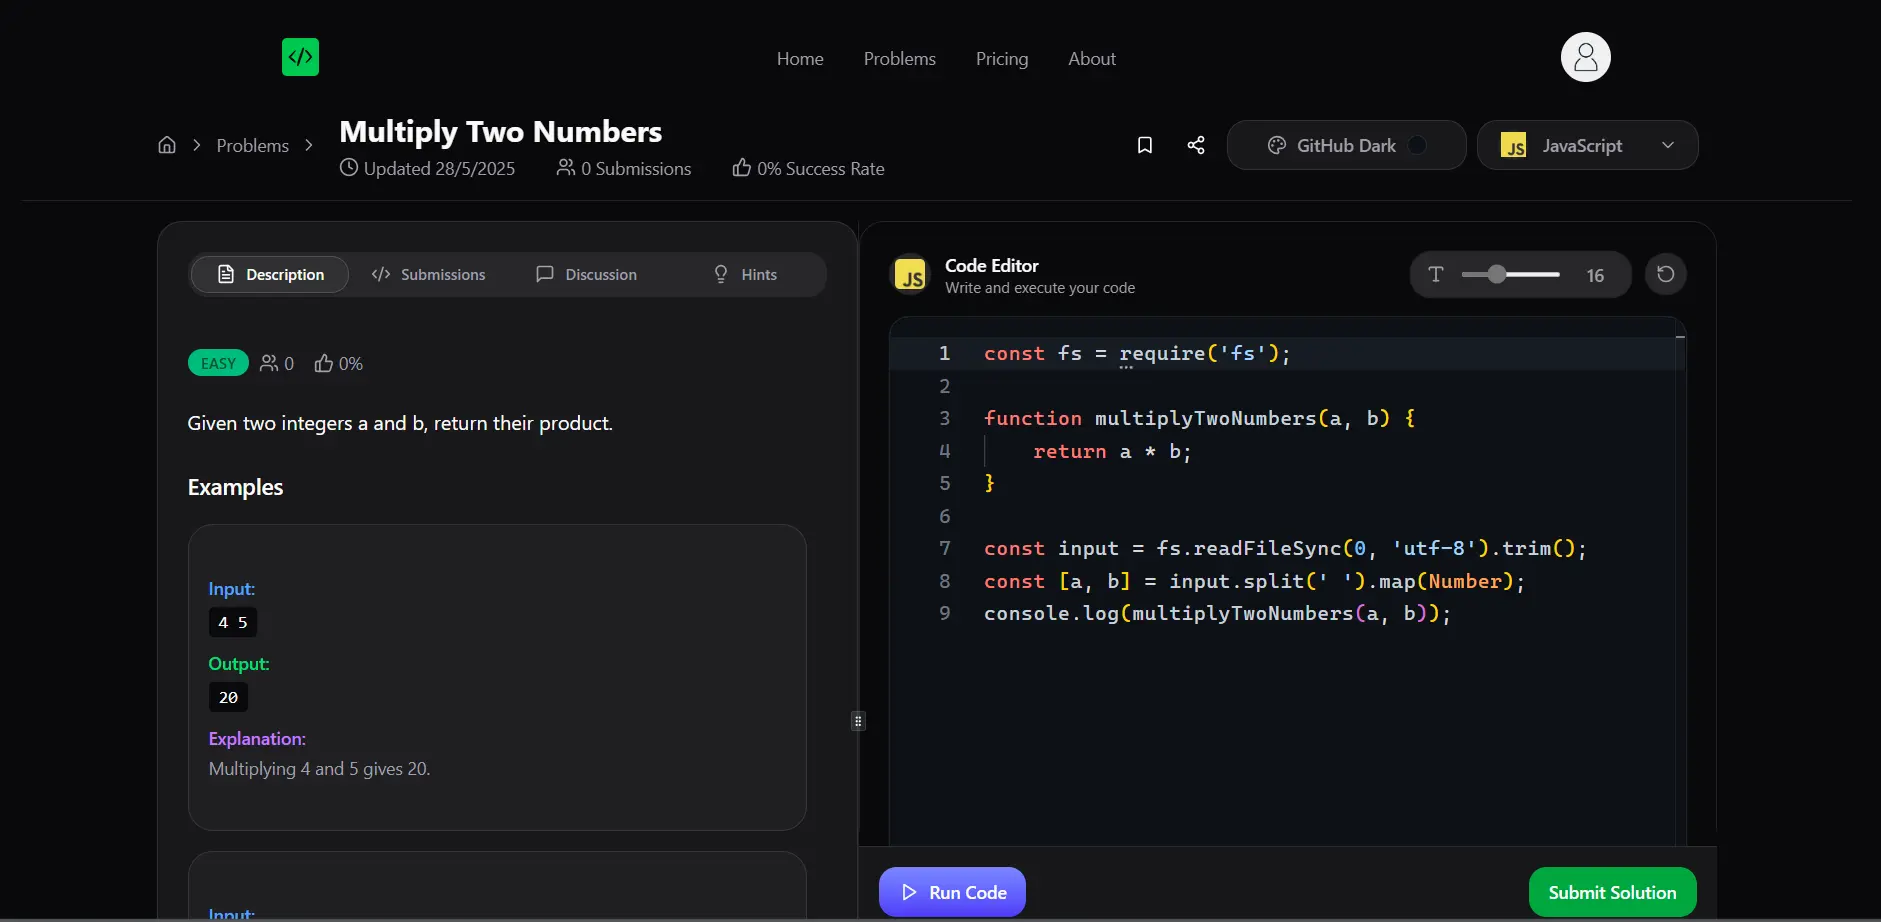
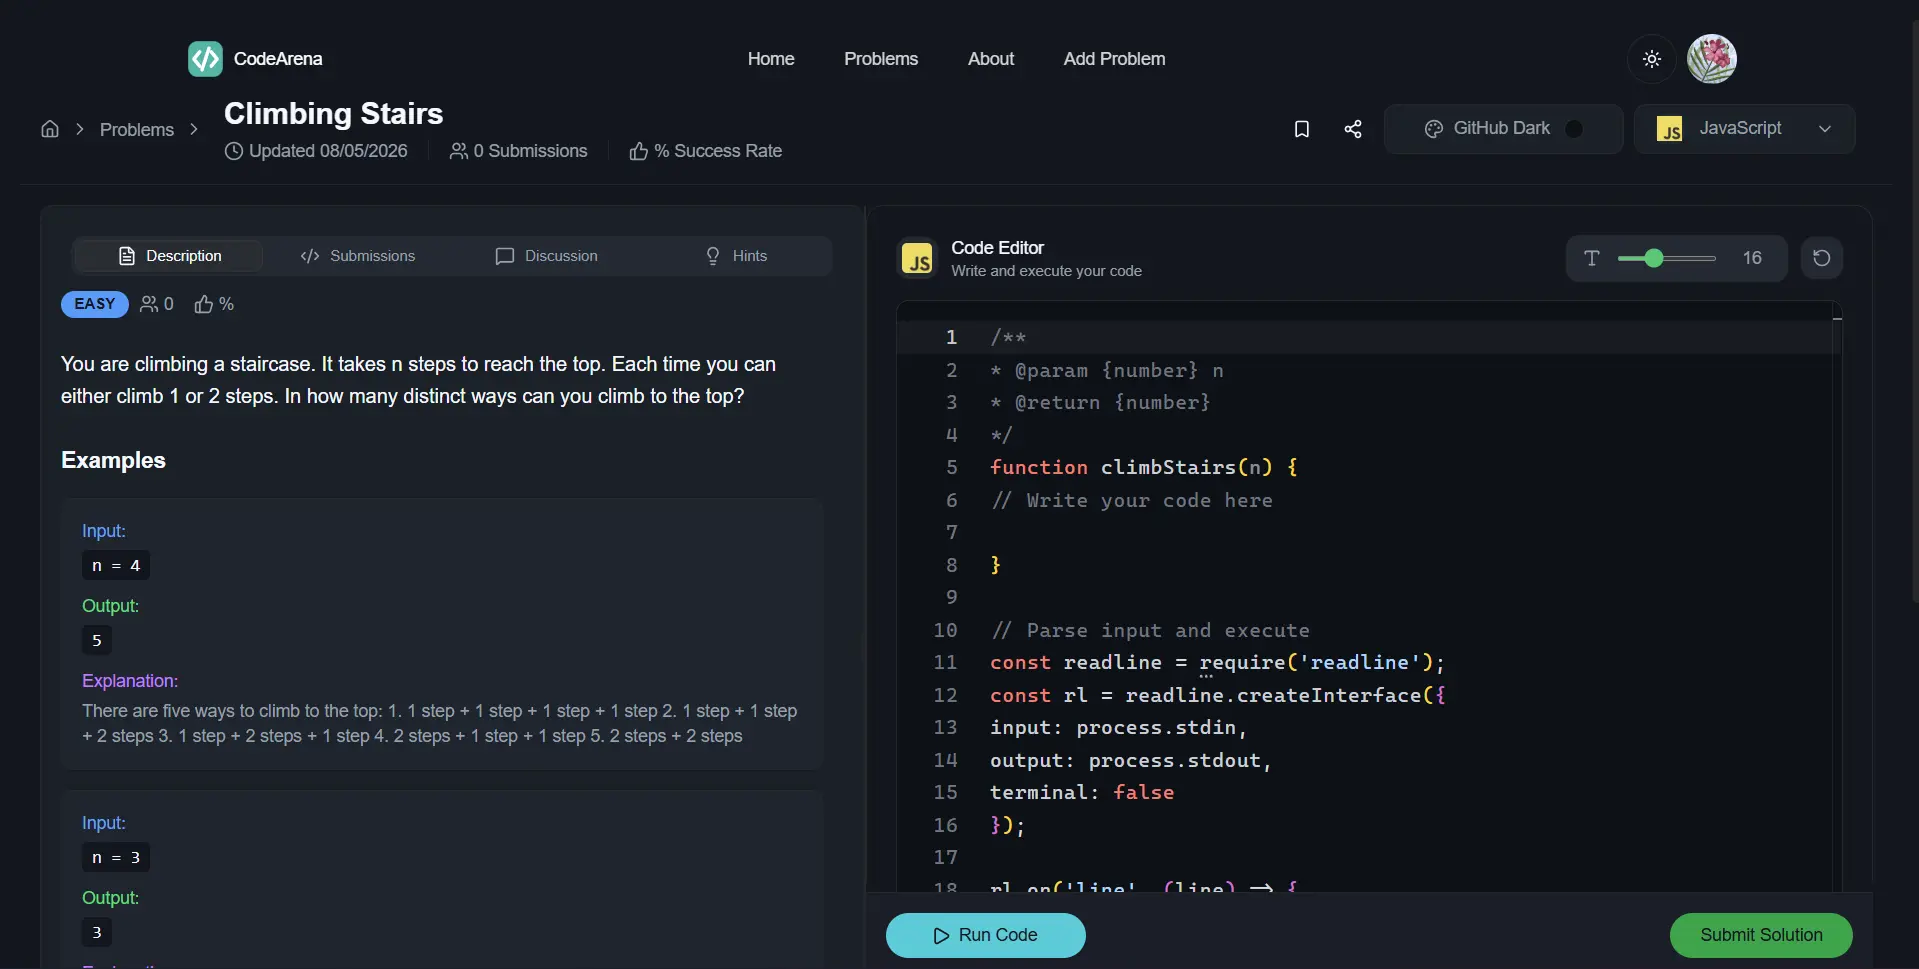
feat: enhance hero section with animated gradient background and update styling for demo images

diff --git a/frontend/src/pages/auth/Problems.tsx b/frontend/src/pages/auth/Problems.tsx
@@ -26,10 +26,24 @@ const Problems = () => {
   
 
   return (
-    <div className="mt-4 flex min-h-screen flex-col items-center px-4">
-      <div className="bg-primary absolute top-16 bottom-9 left-0 h-1/3 w-1/3 rounded-md opacity-30 blur-3xl"></div>
+    <div className="relative mt-4 flex min-h-screen flex-col items-center px-4 overflow-hidden">
+      {/* Animated gradient background */}
+      <div className="fixed inset-0 -z-10 overflow-hidden pointer-events-none">
+        {/* Primary gradient blob - top left */}
+        <div className="absolute -top-40 -left-32 w-[500px] h-[500px] bg-gradient-to-br from-primary via-primary to-transparent opacity-25 rounded-full blur-3xl animate-pulse"></div>
+        
+        {/* Secondary gradient blob - top right */}
+        <div className="absolute -top-20 -right-40 w-[450px] h-[450px] bg-gradient-to-bl from-secondary via-transparent to-transparent opacity-20 rounded-full blur-3xl animate-pulse animation-delay-2000"></div>
+        
+        {/* Tertiary gradient blob - middle left */}
+        <div className="absolute top-1/3 -left-20 w-[400px] h-[400px] bg-gradient-to-tr from-accent via-transparent to-transparent opacity-15 rounded-full blur-3xl animate-pulse animation-delay-4000"></div>
+        
+        {/* Additional accent blob - bottom right */}
+        <div className="absolute -bottom-40 -right-20 w-[500px] h-[500px] bg-gradient-to-tl from-primary via-transparent to-transparent opacity-20 rounded-full blur-3xl animate-pulse animation-delay-3000"></div>
+      </div>
+
       <h1 className="z-10 text-center text-4xl font-extrabold">
-        Welcome to <span className="text-primary">Leet Master</span>
+        Welcome to <span className="text-primary">CodeArena</span>
       </h1>
 
       <p className="z-10 mt-4 text-center text-lg font-semibold text-gray-500 dark:text-gray-400">

diff --git a/frontend/src/components/hero-section-1.tsx b/frontend/src/components/hero-section-1.tsx
@@ -174,13 +174,13 @@ export function HeroSection() {
                   <div className="ring-background bg-background relative mx-auto max-w-6xl overflow-hidden rounded-2xl border p-4 shadow-lg ring-1 shadow-zinc-950/15 dark:shadow-zinc-950">
                     {/* Dark theme image */}
                     <img
-                      className="bg-background relative hidden w-full aspect-video object-cover rounded-lg dark:block"
+                      className="bg-background relative z-20 hidden w-full mx-auto max-w-full h-auto object-contain rounded-lg dark:block"
                       src="/dark-demo.webp"
                       alt="app screen"
                     />
                     {/* Light theme image */}
                     <img
-                      className="border-border/25 relative w-full aspect-video object-cover rounded-lg border dark:hidden"
+                      className="border-border/25 relative z-20 block dark:hidden w-full mx-auto max-w-full h-auto object-contain rounded-lg border"
                       src="/light-demo.webp"
                       alt="app screen"
                     />

diff --git a/frontend/src/index.css b/frontend/src/index.css
@@ -8,6 +8,19 @@
 
 @custom-variant dark (&:is(.dark *));
 
+/* Custom animation delays */
+@layer utilities {
+  .animation-delay-2000 {
+    animation-delay: 2s;
+  }
+  .animation-delay-3000 {
+    animation-delay: 3s;
+  }
+  .animation-delay-4000 {
+    animation-delay: 4s;
+  }
+}
+
 :root {
   --background: oklch(0.9842 0.0034 247.8600);
   --foreground: oklch(0.2795 0.0368 260.0300);
@@ -191,6 +204,25 @@
 }
 
 @layer components {
+  /* Custom scrollbar */
+  ::-webkit-scrollbar {
+    width: 6px;
+    height: 6px;
+  }
+
+  ::-webkit-scrollbar-track {
+    background: var(--background);
+  }
+
+  ::-webkit-scrollbar-thumb {
+    background: var(--border);
+    border-radius: 3px;
+  }
+
+  ::-webkit-scrollbar-thumb:hover {
+    background: var(--muted-foreground);
+  }
+
   .run-code-button {
     min-width: 10rem;
     border: 1px solid color-mix(in oklab, var(--accent) 55%, transparent);
